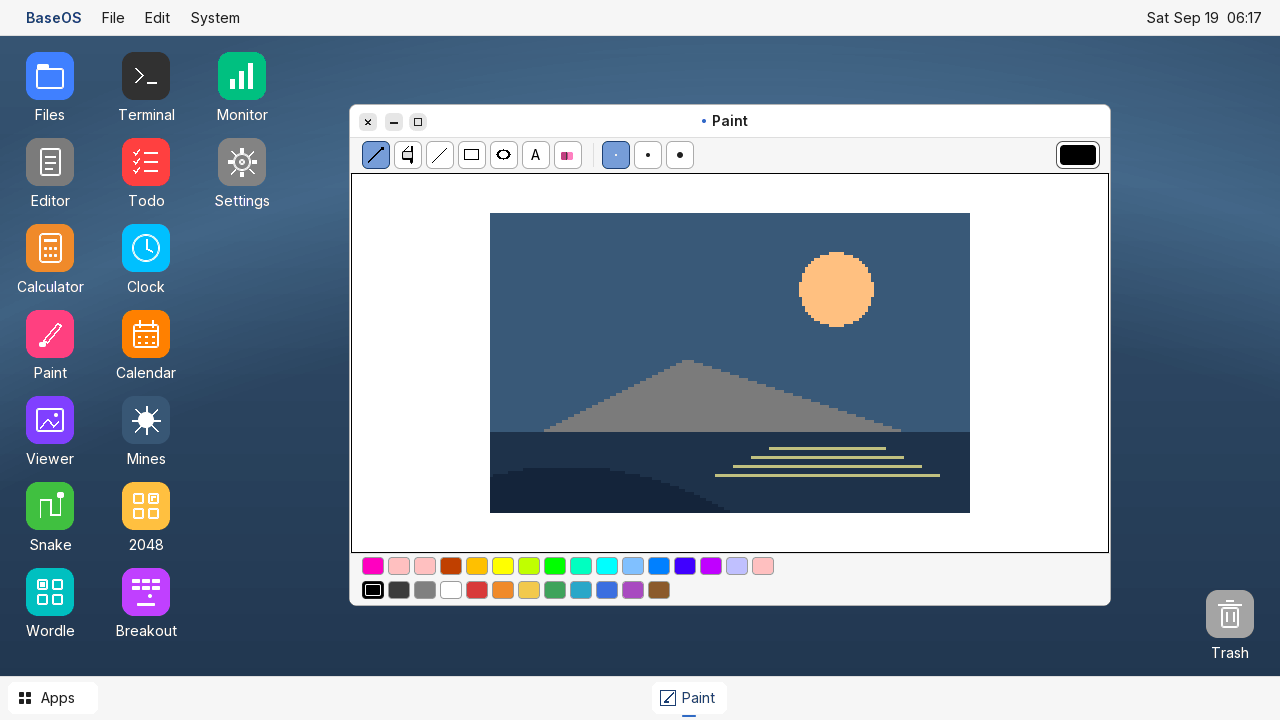
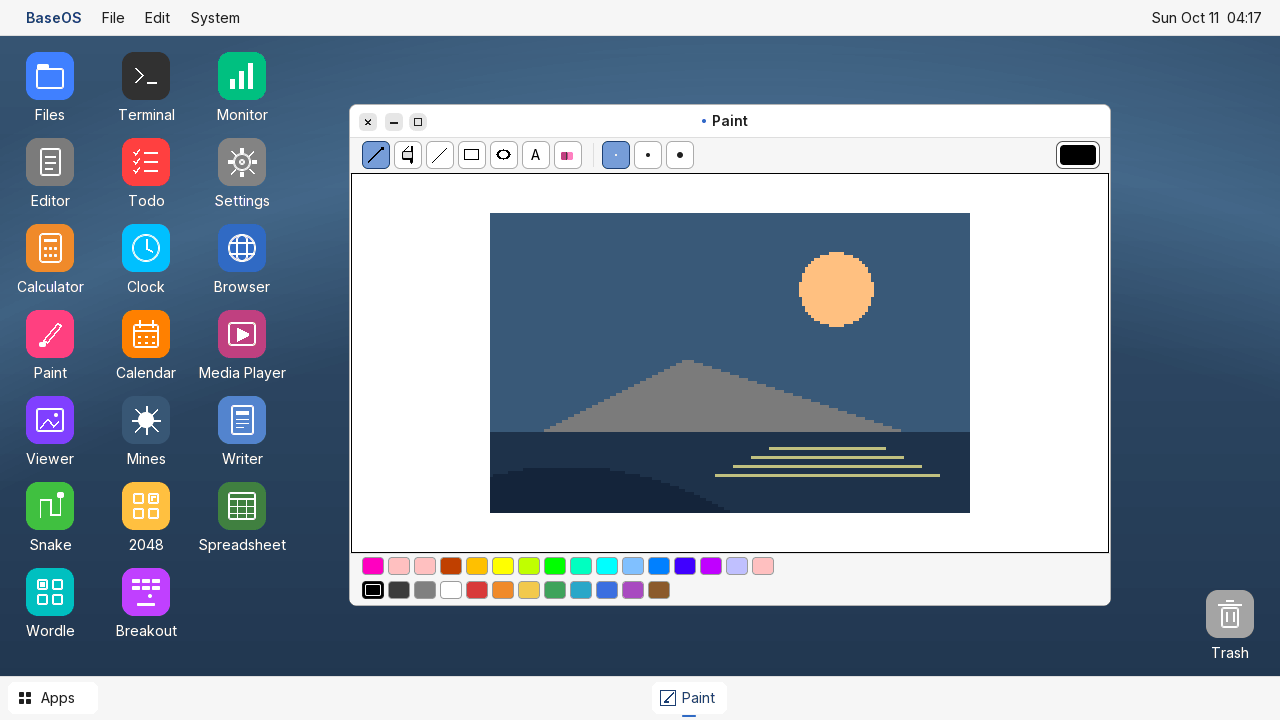
Add Writer, Spreadsheet, Browser, media and Calendar screenshots to README
Extend the gallery fixture with scenes for the newer apps, give the capture VM a silent SB16 device, and refresh the existing gallery images against the current desktop.

Changed region(s): [[0.1562, 0.3056, 0.2188, 0.6417], [0.1562, 0.6722, 0.2188, 0.7639], [0.875, 0.0, 0.9688, 0.0306]]

diff --git a/tools/gallery_guest.c b/tools/gallery_guest.c
@@ -15,6 +15,10 @@ static void gallery_place(int x,int y,int w,int h) {
     win_clamp(v);
 }
 static void gallery_command(const char *s) { while(*s)term_char(*s++);term_enter(); }
+static void gallery_writer_key(int scancode,int modifiers) { writer_key(scancode,0,modifiers); }
+static void gallery_writer(const char *s) {
+    for(;*s;s++)writer_key(*s=='\n'?KEY_ENTER:0,*s,0);
+}
 static void gallery_show(int n) {
     render_scene();flip_vga();
     /* Refresh the same completed frame after QEMU has consumed dirty VRAM.
@@ -78,5 +82,39 @@ void feature_test(void) {
     win_open(WK_SETTINGS);gallery_place(300,110,0,0);gallery_show(4);
 
     gallery_clear();theme_id=0;theme_apply();launcher_open();gallery_show(5);
+
+    int docs=fs_find_child(fs_root(),"Documents");
+    gallery_clear();open_writer(-1);gallery_place(300,70,860,560);
+    gallery_writer_key(0x02,WRITER_MOD_CTRL);gallery_writer_key(0x12,WRITER_MOD_CTRL);
+    gallery_writer("Harbor Notes\n");
+    gallery_writer_key(0x0b,WRITER_MOD_CTRL);gallery_writer_key(0x26,WRITER_MOD_CTRL);
+    gallery_writer("Writer keeps ");gallery_writer_key(0x30,WRITER_MOD_CTRL);gallery_writer("bold");
+    gallery_writer_key(0x30,WRITER_MOD_CTRL);gallery_writer(", ");gallery_writer_key(0x17,WRITER_MOD_CTRL);
+    gallery_writer("italic");gallery_writer_key(0x17,WRITER_MOD_CTRL);gallery_writer(" and ");
+    gallery_writer_key(0x16,WRITER_MOD_CTRL);gallery_writer("underlined");gallery_writer_key(0x16,WRITER_MOD_CTRL);
+    gallery_writer(" text with proportional wrapping. Save native documents, or export RTF and paginated Letter or A4 PDF.\n");
+    gallery_writer_key(0x02,WRITER_MOD_CTRL);gallery_writer("Before the trip\n");
+    gallery_writer_key(0x0b,WRITER_MOD_CTRL);
+    gallery_writer("Check the tide table, pack the blue lantern, and leave the boat key with Mara at the harbor office. "
+        "The ferry leaves at seven, so plan to be at the dock early.\n");
+    gallery_writer_key(0x13,WRITER_MOD_CTRL);gallery_writer("Written in BaseOS Writer\n");
+    gallery_writer_key(0x26,WRITER_MOD_CTRL);
+    gallery_show(6);
+
+    gallery_clear();open_spreadsheet(fs_find_child(docs,"budget.bsh"));gallery_place(260,70,900,560);gallery_show(7);
+
+    gallery_clear();open_browser(fs_find_child(docs,"welcome.html"));gallery_place(300,70,840,560);gallery_show(8);
+
+    gallery_clear();open_player(-1);gallery_place(250,110,0,0);
+    open_view(fs_find_child(fs_find_child(fs_root(),"Pictures"),"Mountain.bos"));gallery_place(640,90,600,460);
+    gallery_show(9);
+
+    gallery_clear();
+    RtcTime now;rtc_read(&now);
+    cal_agenda_add(now.year,now.month,now.day,9*60,"Ferry to the island");
+    cal_agenda_add(now.year,now.month,now.day,13*60+30,"Lunch with Mara");
+    cal_agenda_add(now.year,now.month,now.day,-1,"Pack the blue lantern");
+    win_open(WK_CAL);gallery_place(330,80,0,0);
+    gallery_show(10);
     platform_log("GALLERY-DONE\n");
 }

diff --git a/tools/gallery.py b/tools/gallery.py
@@ -1,4 +1,4 @@
-"""Capture six real guest screenshots with sample data on a disposable image.
+"""Capture real guest screenshots with sample data on a disposable image.
 
 Usage: python3 tools/gallery.py build
 The regular kernel and saved disk are untouched. A documentation-only guest
@@ -17,7 +17,8 @@ from update_image import install_kernel
 ROOT = pathlib.Path(__file__).resolve().parents[1]
 BUILD = pathlib.Path(sys.argv[1] if len(sys.argv) > 1 else "build").resolve()
 OUTPUT = ROOT / "screenshots" / "gallery"
-NAMES = ["desktop", "paint", "programming", "games", "themes", "search"]
+NAMES = ["desktop", "paint", "programming", "games", "themes", "search",
+         "writer", "spreadsheet", "browser", "media", "calendar"]
 
 
 def tool(name):
@@ -49,6 +50,7 @@ with tempfile.TemporaryDirectory(prefix="baseos-gallery-") as temp:
     guest = subprocess.Popen([
         "qemu-system-i386", "-m", "64M", "-vga", "std", "-drive",
         f"file={work / 'disk.img'},format=raw,index=0,if=floppy", "-display", "none",
+        "-audiodev", "none,id=gallery", "-device", "sb16,audiodev=gallery",
         "-serial", f"file:{log}", "-qmp", "stdio", "-no-reboot"],
         stdin=subprocess.PIPE, stdout=subprocess.PIPE, stderr=subprocess.PIPE)
     try:

diff --git a/README.md b/README.md
@@ -31,7 +31,37 @@ Detailed guides: [Files](docs/FILES.md), [Spreadsheet](docs/SHEET.md), [Writer](
 
 ## Screenshots
 
-These captures come from the running QEMU guest with sample documents and artwork. These gallery views show the base desktop.
+These captures come from the running QEMU guest with sample documents and artwork.
+
+### Writer
+
+Formatted documents with bold, italic and underline, headings, left/center/right alignment and proportional wrapping. Writer saves native `.bwr` files and exports RTF or paginated Letter/A4 PDF.
+
+![Writer editing a formatted document with headings and inline styles](screenshots/gallery/writer.png)
+
+### Spreadsheet
+
+A 128 x 26 grid with formulas, number/currency/percent formats, adjustable column widths and CSV interchange. The sample `Documents/budget.bsh` totals a small monthly budget.
+
+![Spreadsheet showing the sample budget with planned, actual and remaining columns](screenshots/gallery/spreadsheet.png)
+
+### Browser
+
+Read HTTP pages and local HTML files, follow links, save pages for offline reading and download files in the background. The built-in guide opens from `file:///Documents/welcome.html`.
+
+![Browser displaying the local BaseOS guide page](screenshots/gallery/browser.png)
+
+### Media Player and Image Viewer
+
+Media Player plays WAV, MP3 and MPEG-1 video through QEMU's SB16 device with a playlist and volume control. Image Viewer opens JPEG, PNG, BMP, GIF and BaseOS images with fit, zoom and pan.
+
+![Media Player listing a track next to Image Viewer showing a Paint picture](screenshots/gallery/media.png)
+
+### Calendar
+
+Monthly view with a day agenda. Appointments can be all-day or timed, days with entries are marked, and unfinished entries recover after a confirmed disk save or normal shutdown.
+
+![Calendar showing a month view and three appointments for the selected day](screenshots/gallery/calendar.png)
 
 ### Paint
 
@@ -157,7 +187,7 @@ The compositor caches the background during window drags and uploads changed scr
 | `tools/` | Disk tools, font generation, test runners, and screenshot capture |
 | `examples/`, `sdk/` | Native assembly and C examples, application SDK |
 | `assets/` | Fonts, licenses, cursor, and artwork |
-| `screenshots/gallery/` | The six current README screenshots |
+| `screenshots/gallery/` | The README screenshots |
 | `docs/` | Technical reference |
 | `build/` | Generated binaries and persistent disk image, ignored by Git |
 
